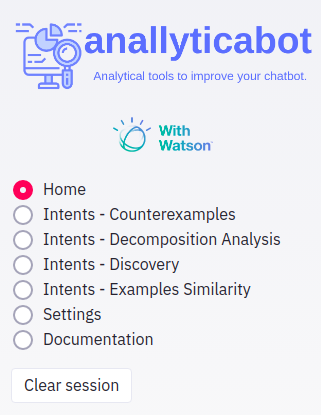
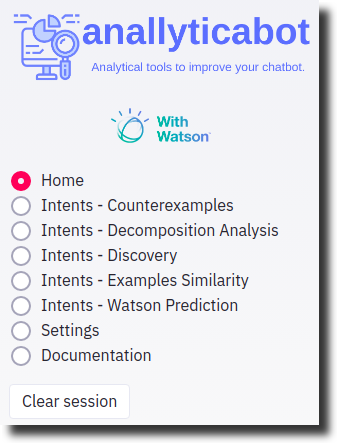
additing Watson Prediction page

Changed region(s): [[0.0, 0.0, 0.9969, 1.0], [0.3115, 0.2602, 0.6542, 0.3759]]

diff --git a/README.md b/README.md
@@ -12,6 +12,7 @@ Anallyticabot is free to use and is an open source project! 💙
 - Decomposition Analysis (2D chart for intents model)
 - Intents Discovery
 - Examples similarity
+- Watson predictions validation
 
 # Installation
 
